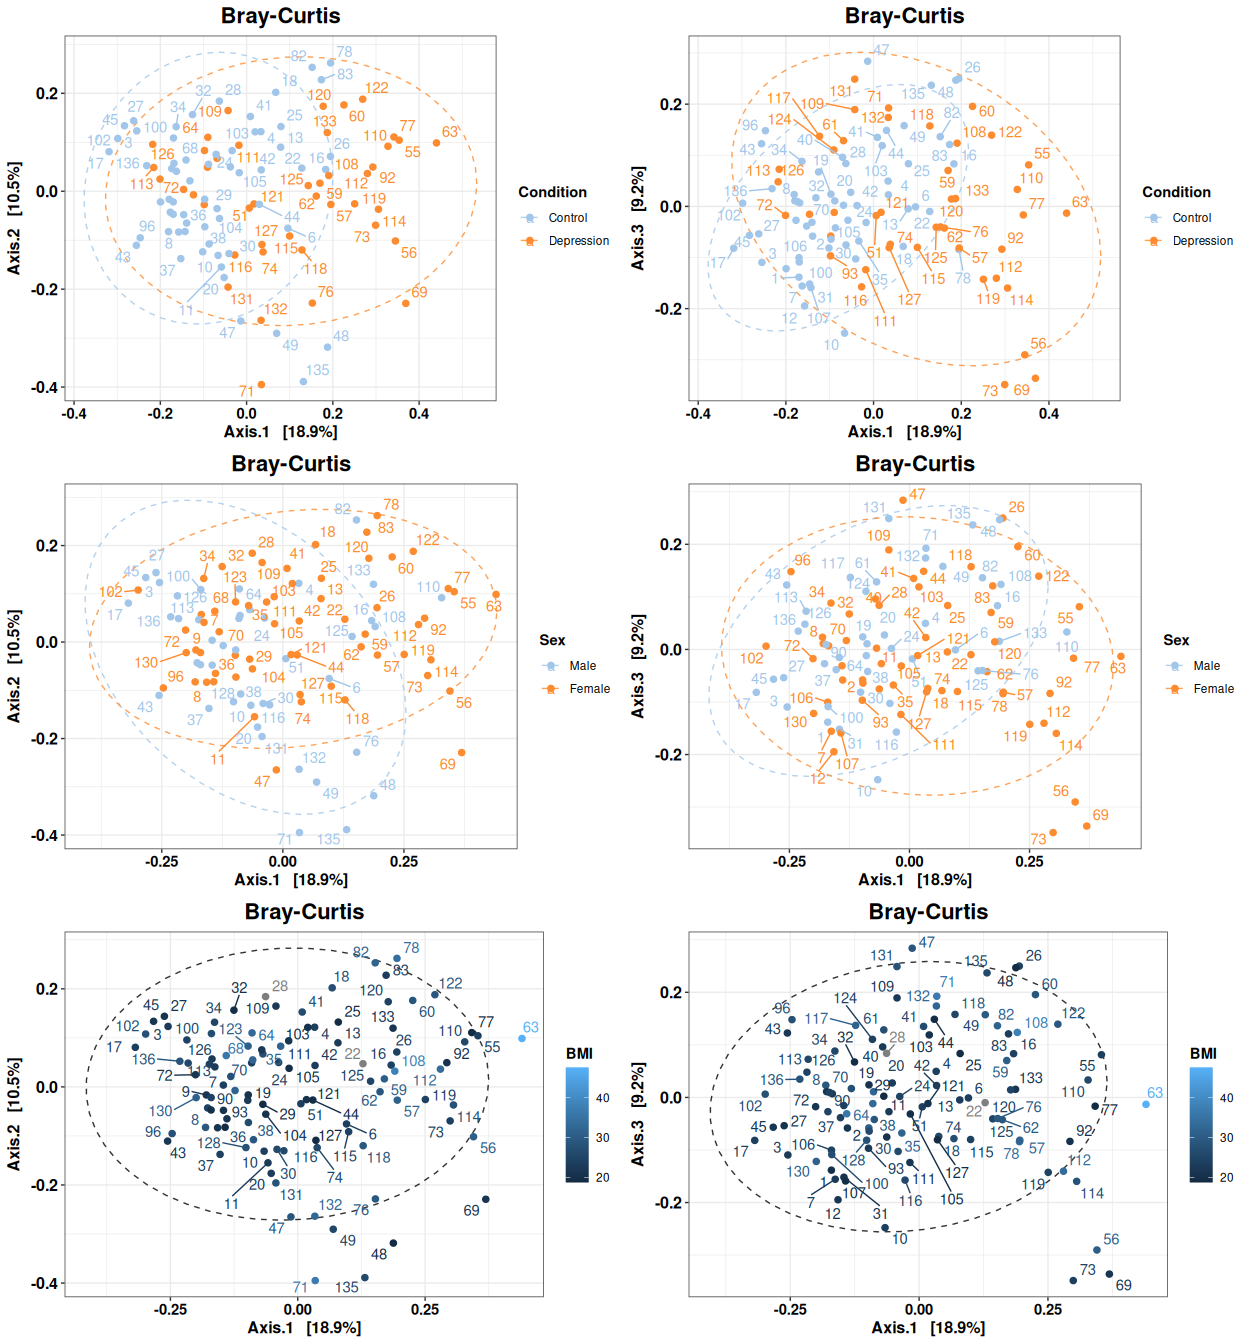
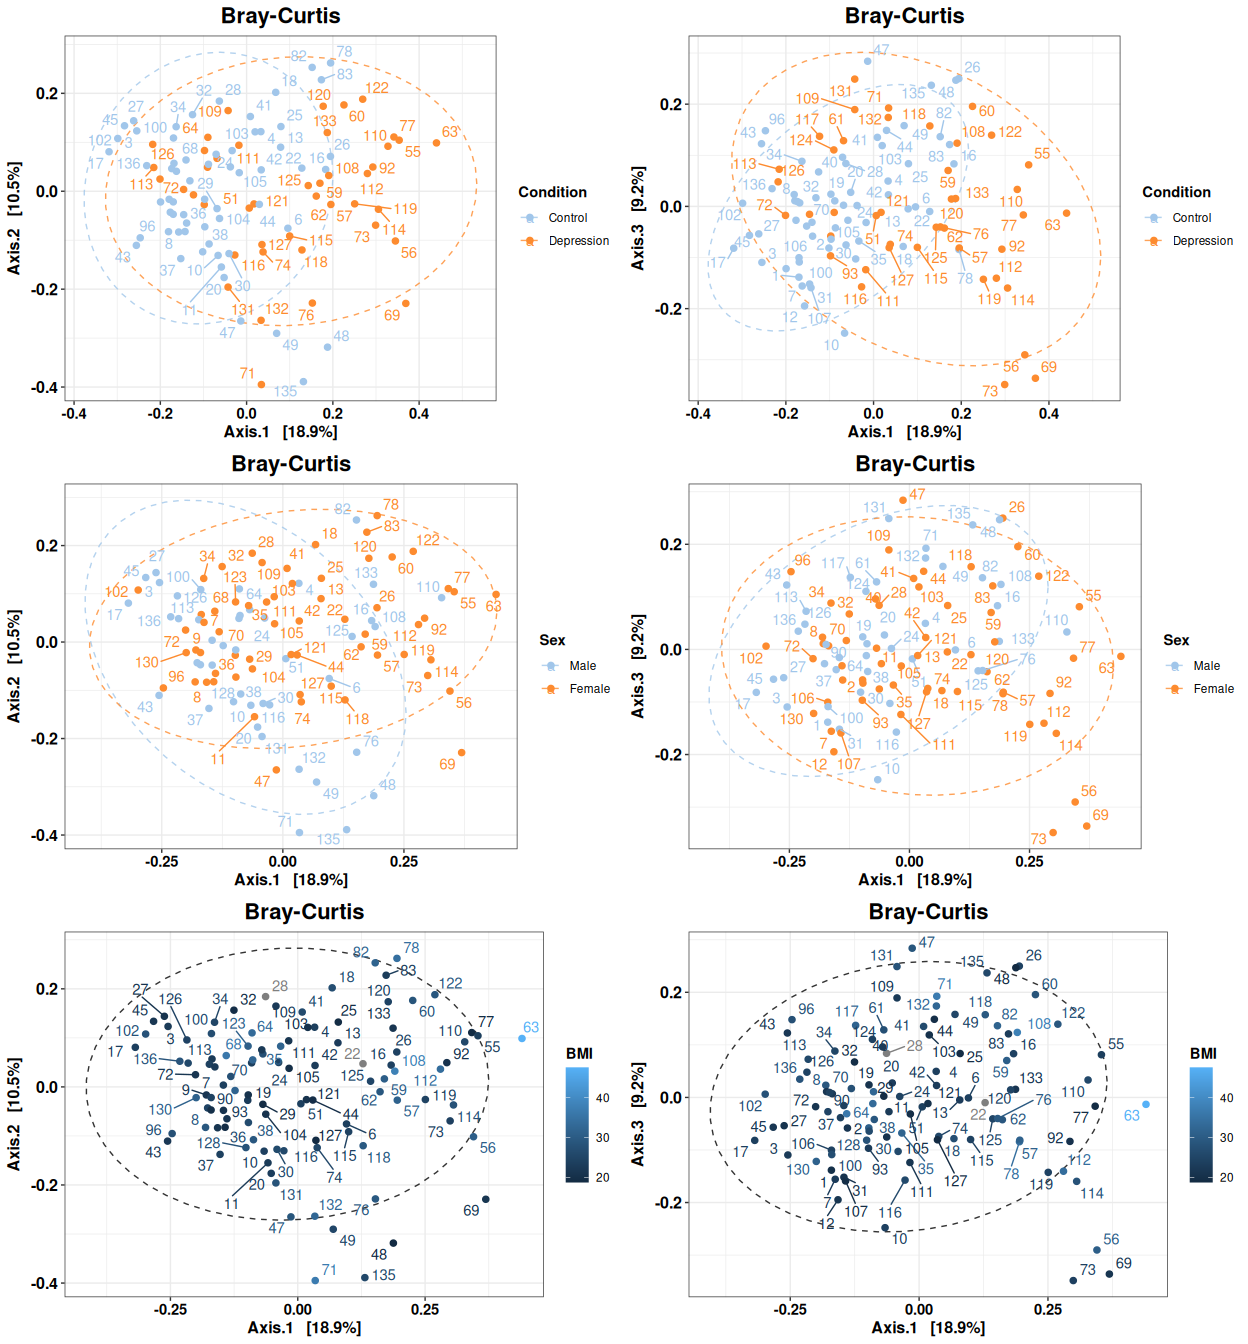
mod readme and yaml

diff --git a/README.md b/README.md
@@ -259,35 +259,38 @@ betaplots <- makeAllPCoAs(phobj_raref, outdir,
 #> Square root transformation
 #> Wisconsin double standardization
 #> Run 0 stress 0.2424031 
-#> Run 1 stress 0.2450175 
-#> Run 2 stress 0.2413875 
+#> Run 1 stress 0.2422261 
 #> ... New best solution
-#> ... Procrustes: rmse 0.03453249  max resid 0.2040516 
-#> Run 3 stress 0.2479525 
-#> Run 4 stress 0.241074 
+#> ... Procrustes: rmse 0.009849514  max resid 0.07497628 
+#> Run 2 stress 0.2426715 
+#> ... Procrustes: rmse 0.01602455  max resid 0.1058066 
+#> Run 3 stress 0.2454269 
+#> Run 4 stress 0.2479894 
+#> Run 5 stress 0.2456021 
+#> Run 6 stress 0.2429083 
+#> Run 7 stress 0.242251 
+#> ... Procrustes: rmse 0.001758987  max resid 0.01458032 
+#> Run 8 stress 0.244947 
+#> Run 9 stress 0.2459823 
+#> Run 10 stress 0.2418355 
 #> ... New best solution
-#> ... Procrustes: rmse 0.01783737  max resid 0.1590581 
-#> Run 5 stress 0.2443354 
-#> Run 6 stress 0.2418592 
-#> Run 7 stress 0.2698389 
-#> Run 8 stress 0.2411031 
-#> ... Procrustes: rmse 0.003079735  max resid 0.02145552 
-#> Run 9 stress 0.2413875 
-#> ... Procrustes: rmse 0.01783647  max resid 0.158801 
-#> Run 10 stress 0.2418271 
-#> Run 11 stress 0.2423542 
-#> Run 12 stress 0.2453918 
-#> Run 13 stress 0.2451823 
-#> Run 14 stress 0.2418291 
-#> Run 15 stress 0.2425758 
-#> Run 16 stress 0.2426894 
-#> Run 17 stress 0.2454342 
-#> Run 18 stress 0.2423002 
-#> Run 19 stress 0.2429148 
-#> Run 20 stress 0.2418242 
+#> ... Procrustes: rmse 0.03477898  max resid 0.2051575 
+#> Run 11 stress 0.2443865 
+#> Run 12 stress 0.2444304 
+#> Run 13 stress 0.2436547 
+#> Run 14 stress 0.2410743 
+#> ... New best solution
+#> ... Procrustes: rmse 0.01979574  max resid 0.1538999 
+#> Run 15 stress 0.2451825 
+#> Run 16 stress 0.2411295 
+#> ... Procrustes: rmse 0.007114249  max resid 0.06856813 
+#> Run 17 stress 0.2451361 
+#> Run 18 stress 0.2415094 
+#> ... Procrustes: rmse 0.009325877  max resid 0.07843878 
+#> Run 19 stress 0.2451823 
+#> Run 20 stress 0.2478029 
 #> *** Best solution was not repeated -- monoMDS stopping criteria:
-#>      3: no. of iterations >= maxit
-#>     17: stress ratio > sratmax
+#>     20: stress ratio > sratmax
 
 cowplot::plot_grid(plotlist = betaplots, nrow = 1)
 ```
@@ -467,7 +470,7 @@ contrastlist2 <- list(
 
 names(contrastlist2) <- c( "Sex", "Age")
 
-contrast_names_pretty <- c("Depression vs Control",  "Female vs Male", "Age")
+contrast_names_pretty <- c("Depression vs Control",  "Sex", "Age")
 
 compareLFCContrats2(contrastlist2, mainContrast, 
                    contrast_names_pretty, "Depression_vs_Control", 
